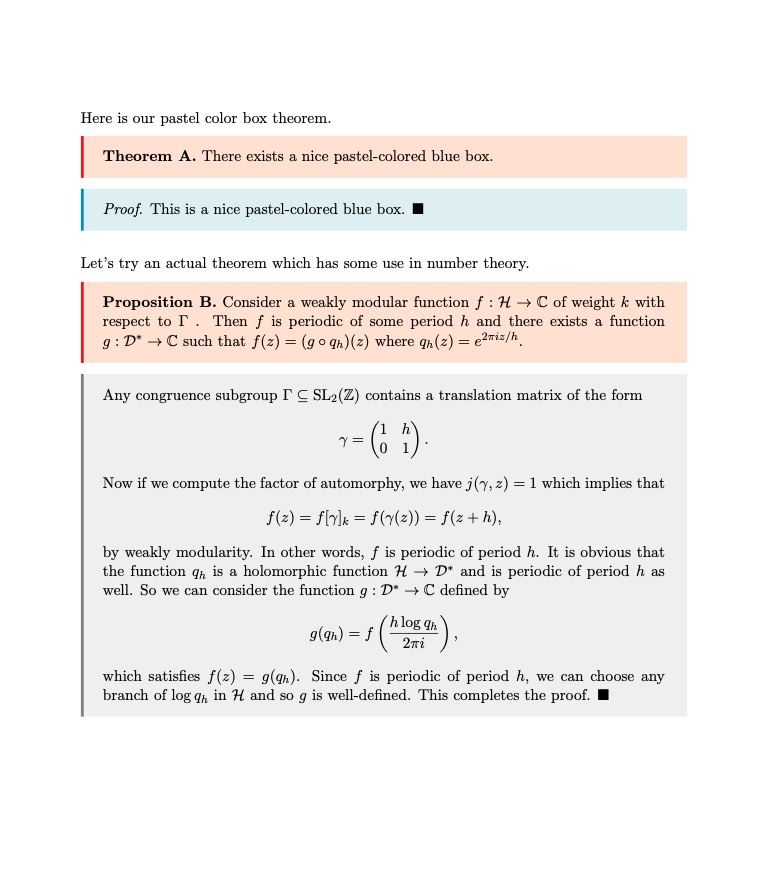
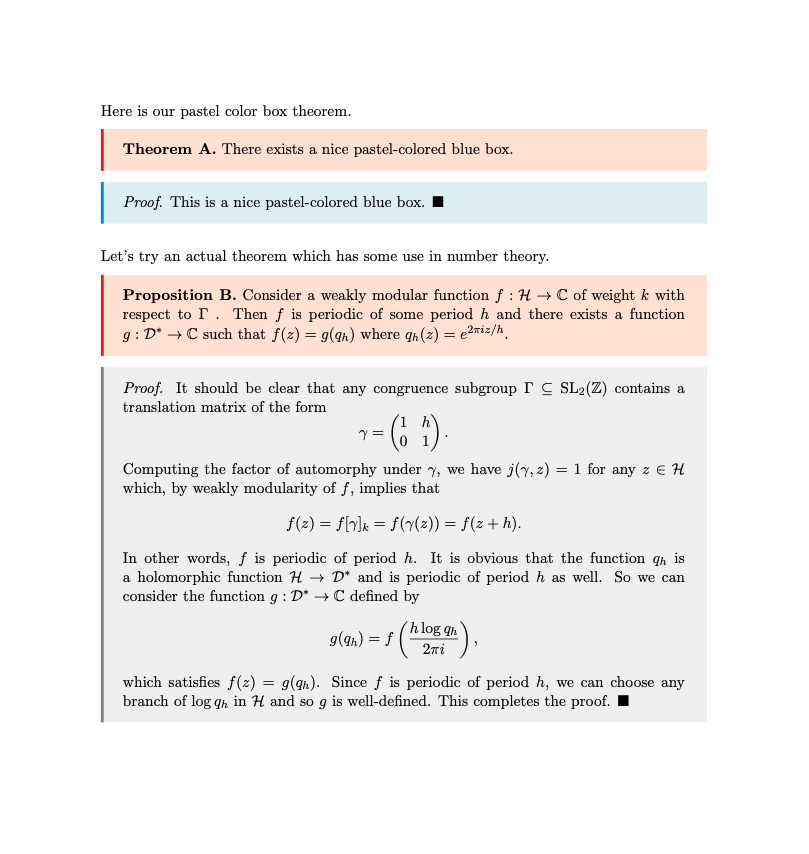
Ironically this is a correction on the math and not on the tex

Changed region(s): [[0.0935, 0.1218, 0.9039, 0.8525]]

diff --git a/pastel-boxes-example/pastel-boxes.tex b/pastel-boxes-example/pastel-boxes.tex
@@ -54,22 +54,22 @@ Here is our pastel color box theorem.
 Let's try an actual theorem which has some use in number theory.
 
 \begin{myAwesomeBox}
-    \textbf{Proposition B.} Consider a weakly modular function $ f: \mathcal{H} \to \mathbb{C} $ of weight $ k $ with respect to $ \Gamma $ . Then $ f $ is periodic of some period $ h $ and there exists a function $ g: \mathcal{D^*} \to \mathbb{C} $ such that $ f(z) = (g \circ q_h)(z) $ where $ q_h(z) = e^{2 \pi i z/h} $.
+    \textbf{Proposition B.} Consider a weakly modular function $ f: \mathcal{H} \to \mathbb{C} $ of weight $ k $ with respect to $ \Gamma $ . Then $ f $ is periodic of some period $ h $ and there exists a function $ g: \mathcal{D^*} \to \mathbb{C} $ such that $ f(z) = g(q_h) $ where $ q_h(z) = e^{2 \pi i z/h} $.
 \end{myAwesomeBox}
 
 \begin{proofBox}
-    Any congruence subgroup $ \Gamma \subseteq \mathrm{SL}_2(\mathbb{Z}) $ contains a translation matrix of the form
+    \textit{Proof.} It should be clear that any congruence subgroup $ \Gamma \subseteq \mathrm{SL}_2(\mathbb{Z}) $ contains a translation matrix of the form
     \[
        \gamma = \begin{pmatrix}
            1 & h \\
            0 & 1
        \end{pmatrix}.
     \]
-    Now if we compute the factor of automorphy, we have $ j(\gamma, z) = 1 $ which implies that
+    Computing the factor of automorphy under $ \gamma $, we have $ j(\gamma, z) = 1 $ for any $ z \in \mathcal{H} $ which, by weakly modularity of $ f $, implies that
     \[
-       f(z) = f[\gamma]_k = f(\gamma(z)) = f(z + h),
+       f(z) = f[\gamma]_k = f(\gamma(z)) = f(z + h).
     \]
-    by weakly modularity. In other words, $ f $ is periodic of period $ h $. It is obvious that the function $ q_h $ is a holomorphic function $ \mathcal{H} \to \mathcal{D^*} $ and is periodic of period $ h $ as well. So we can consider the function $ g: \mathcal{D^*} \to \mathbb{C} $ defined by
+    In other words, $ f $ is periodic of period $ h $. It is obvious that the function $ q_h $ is a holomorphic function $ \mathcal{H} \to \mathcal{D^*} $ and is periodic of period $ h $ as well. So we can consider the function $ g: \mathcal{D^*} \to \mathbb{C} $ defined by
     \[
        g(q_h) = f \left( \frac{h \log q_h}{2 \pi i} \right),
     \]
